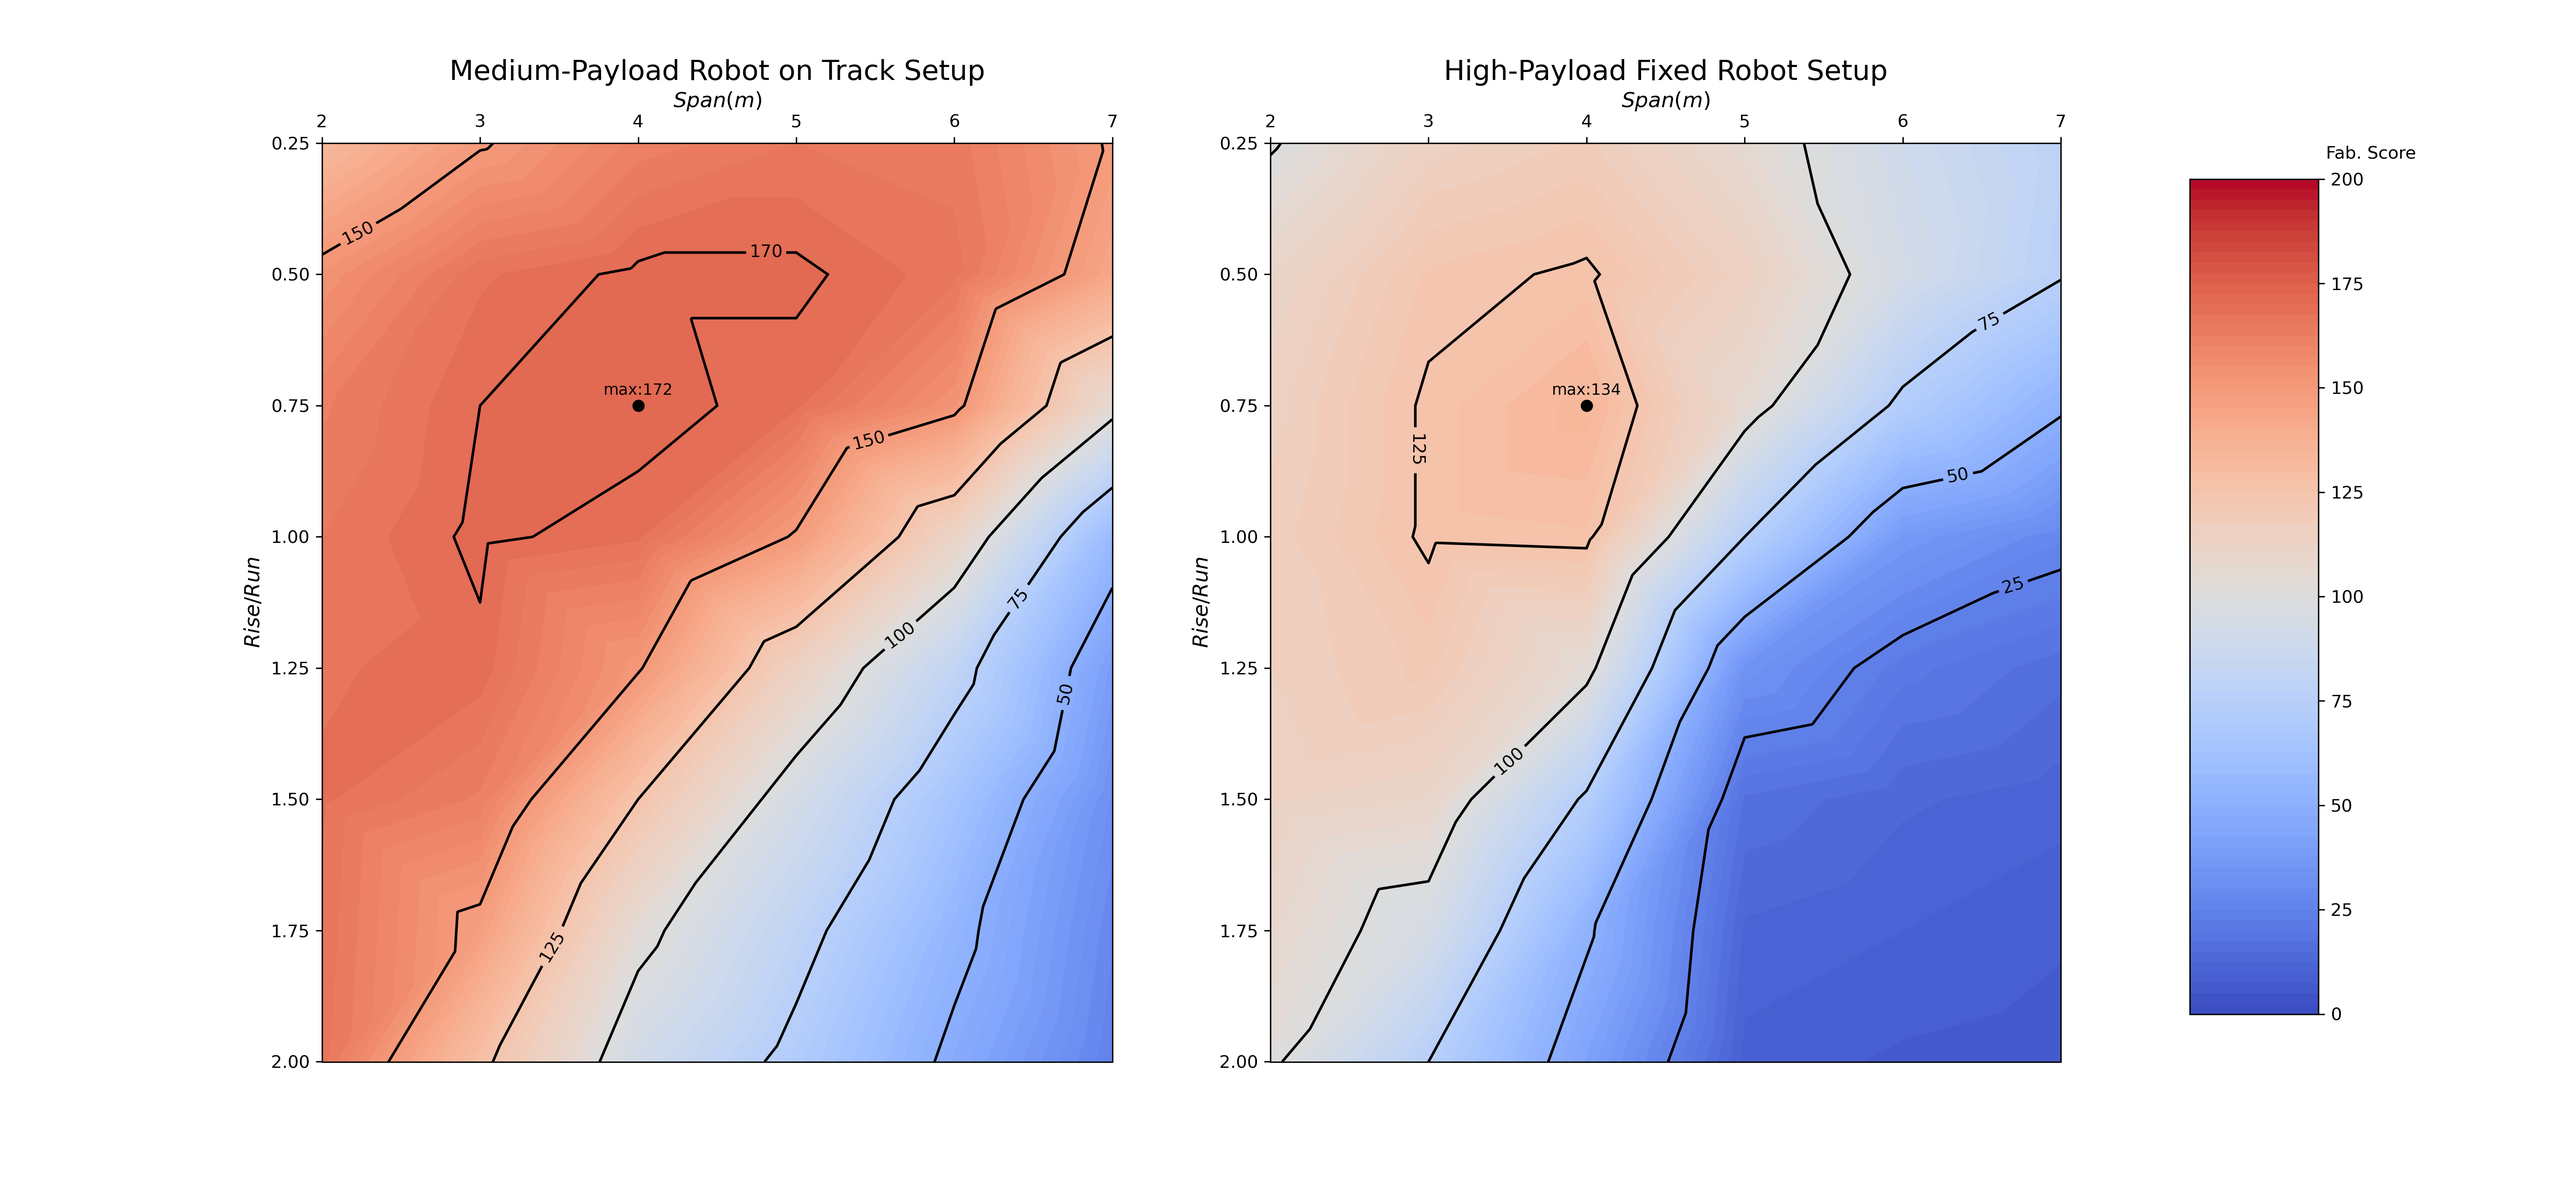
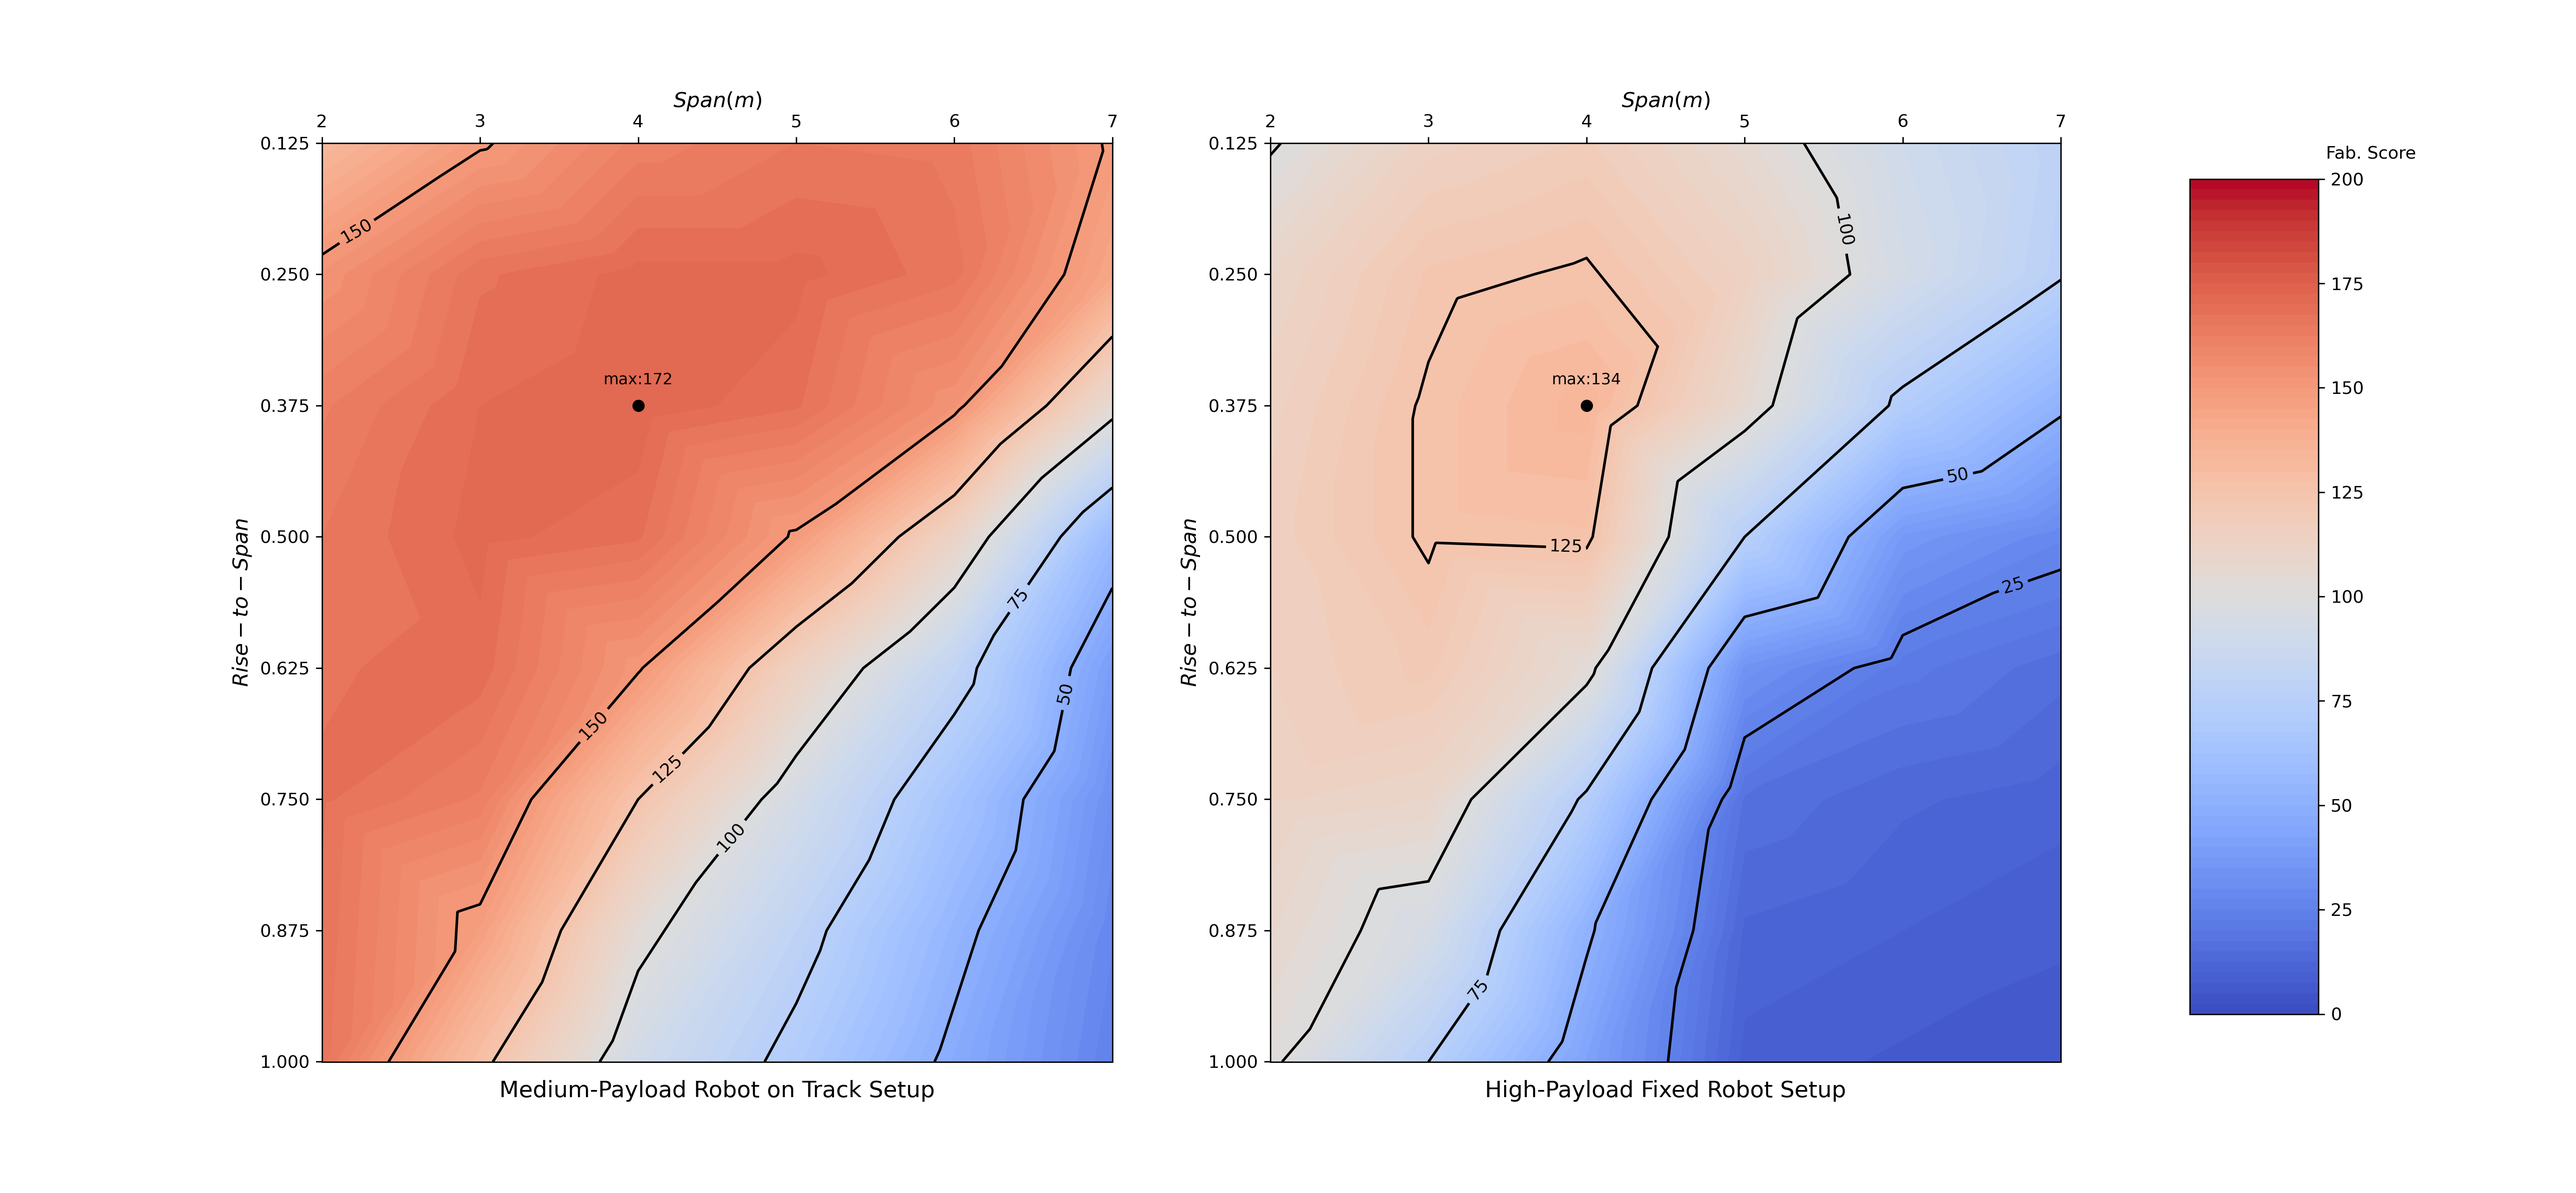
regen with proper rise-to-span

diff --git a/3d_plot.py b/3d_plot.py
@@ -26,7 +26,7 @@ def interpolate_data(X, Y, Z1, X_finer, Y_finer, method="linear"):
 
 
 X = np.arange(2, 7.1, 1)
-Y = np.arange(0.25, 2.01, 0.25)
+Y = np.arange(0.125, 1.01, 0.125)
 
 Z1 = np.array(
     [
@@ -56,7 +56,7 @@ Z2 = np.array(
 
 # Define the finer X and Y grids
 X_finer = np.arange(2, 7.000001, 1 / 100)
-Y_finer = np.arange(0.25, 2.000001, 0.25 / 100)
+Y_finer = np.arange(0.125, 1.000001, 0.125 / 100)
 
 # Interpolate the data
 Z1_finer = interpolate_data(X, Y, Z1, X_finer, Y_finer)
@@ -77,12 +77,12 @@ surf1 = axs[0].contourf(X, Y, Z1_finer, np.linspace(0, 200, 81), vmin=0, vmax=20
 surf2 = axs[1].contourf(X, Y, Z2_finer, np.linspace(0, 200, 81), vmin=0, vmax=200, cmap=cm.coolwarm)
 
 # Contours
-contour1 = axs[0].contour(X, Y, Z1_finer, levels=[25, 50, 75, 100, 125, 150, 170], colors="k")
+contour1 = axs[0].contour(X, Y, Z1_finer, levels=[25, 50, 75, 100, 125, 150], colors="k")
 contour2 = axs[1].contour(X, Y, Z2_finer, levels=[25, 50, 75, 100, 125], colors="k")
 
 # Add points with labels to the surface
 points_x = [4, 4]  # X-coordinates of points
-points_y = [0.75, 0.75]  # Y-coordinates of points
+points_y = [0.375, 0.375]  # Y-coordinates of points
 point_labels = ["max:172", "max:134"]  # Labels for the points
 
 point1 = axs[0].scatter(points_x[0], points_y[0], color="black", marker="o", label="Points")
@@ -90,8 +90,8 @@ point2 = axs[1].scatter(points_x[1], points_y[1], color="black", marker="o", lab
 
 for ax in axs:
     ax.set_xlabel("$Span (m)$", fontsize=12)
-    ax.set_ylabel("$Rise/Run$", fontsize=12)
-    ax.yaxis.set_major_locator(plt.MultipleLocator(0.25))
+    ax.set_ylabel("$Rise-to-Span$", fontsize=12)
+    ax.yaxis.set_major_locator(plt.MultipleLocator(0.125))
     ax.set_ylim(ax.get_ylim()[::-1])
     ax.xaxis.tick_top()
     ax.xaxis.set_label_position("top")
@@ -109,8 +109,8 @@ axs[1].annotate(
     point_labels[1], (points_x[1], points_y[1] - 0.02), fontsize=9, color="black", ha="center"
 )
 
-axs[0].set_title("Medium-Payload Robot on Track Setup", fontsize=16)
-axs[1].set_title("High-Payload Fixed Robot Setup", fontsize=16)
+axs[0].set_title("Medium-Payload Robot on Track Setup", fontsize=13, y=-0.05)
+axs[1].set_title("High-Payload Fixed Robot Setup", fontsize=13, y=-0.05)
 
 
 # Add a color bar which maps values to colors.

diff --git a/json_to_latex.py b/json_to_latex.py
@@ -45,7 +45,7 @@ def read_json_data_info(files_in, txt):
 
             print("opening: {}".format(data_in["arch_info"]))
 
-            ratio = data_in["arch_info"]["ratio"]
+            ratio = data_in["arch_info"]["ratio"] / 2
             span = data_in["arch_info"]["span"]
 
             bricks_total = data_in["reach_data_coop"]["bricks_total"]
@@ -54,7 +54,7 @@ def read_json_data_info(files_in, txt):
             # correct self-weight, for some reason karamba output total weight wrong
             mass_total = bricks_total * 2.70928  # kg/brick
 
-            height = ratio * span / 2
+            height = ratio * span
 
             if i % 6 == 0:
                 lines_data.append(txt[0])
@@ -78,7 +78,7 @@ def read_json_data_reach(files_in, txt):
 
             print("opening: {}".format(data_in["arch_info"]))
 
-            ratio = data_in["arch_info"]["ratio"]
+            ratio = data_in["arch_info"]["ratio"] / 2
 
             reach_ratio_coop = data_in["reach_data_coop"]["reach_ratio"]
             # reach_ratio_single = data_in["reach_data_single"]["reach_ratio"]
@@ -129,7 +129,7 @@ def read_json_data_force(files_in, txt, force_limit):
 
             print("opening: {}".format(data_in["arch_info"]))
 
-            ratio = data_in["arch_info"]["ratio"]
+            ratio = data_in["arch_info"]["ratio"] / 2
 
             force_100 = data_in["analysis_data"]["100%"]["rob_support_kg"]
             force_75 = data_in["analysis_data"]["75%"]["rob_support_kg"]
@@ -210,12 +210,12 @@ ratios = [0.25, 0.50, 0.75, 1.0, 1.25, 1.5, 1.75, 2.0]
 
 txt = [
     "\\\\[-0.2em]\cmidrule{2-8}\\\\[-1.3em]",
-    "&\multicolumn{{1}}{{c|}}{{\makecell[lc]{{\\\\{:.2f}}}}}",
+    "&\multicolumn{{1}}{{c|}}{{\makecell[lc]{{\\\\{:.3f}}}}}",
     "&\\tiny{{\makecell[lc]{{C:{:.0f}\\%\\\\fab:{}}}}}",
     "&\\tiny\cellcolor{{{}}}{{\makecell[lc]{{C:{:.0f}\\%\\\\fab:{}}}}}",
     "&\\tiny{{\makecell[lc]{{max:{:.0f}\\\\75\\%:{:.0f}\\\\50\\%:{:.0f}}}}}",
     "&\\tiny\cellcolor{{{}}}{{\makecell[lc]{{max:{:.0f}\\\\75\\%:{:.0f}\\\\50\\%:{:.0f}}}}}",
-    "&\\footnotesize{{\makecell[lc]{{n={}\\\\{:.0f}kg\\\\{:.1f}m}}}}",
+    "&\\footnotesize{{\makecell[lc]{{n={}\\\\{:.0f}kg\\\\{:.2f}m}}}}",
 ]
 
 # generate these files
